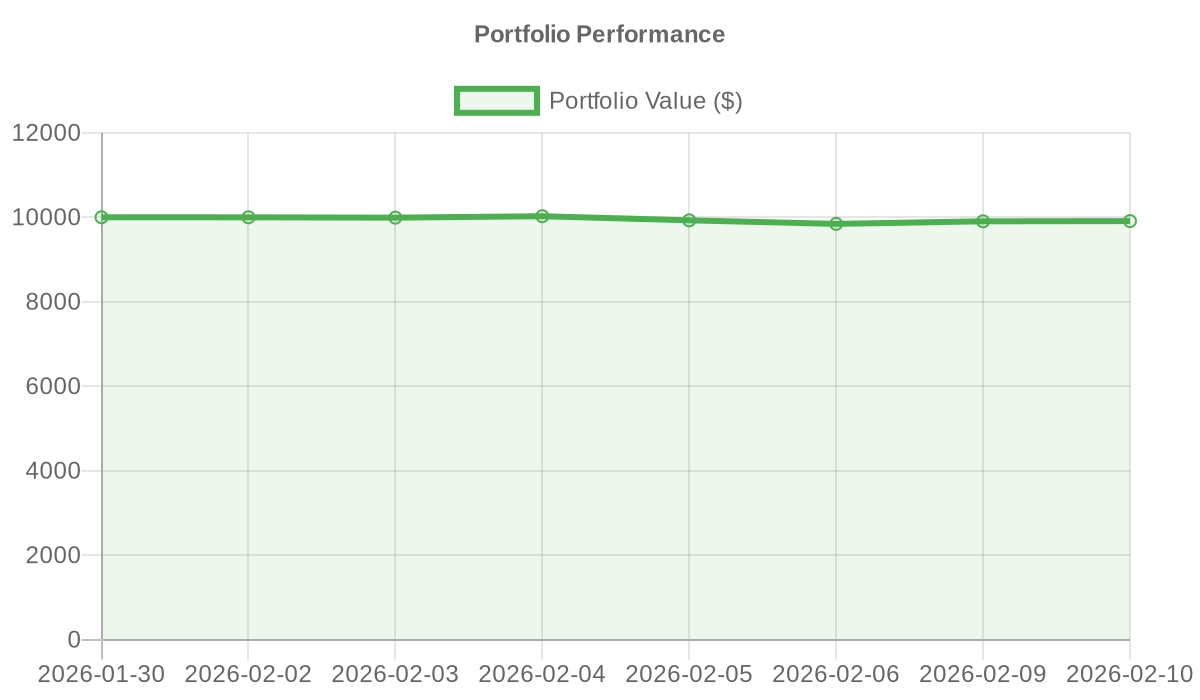
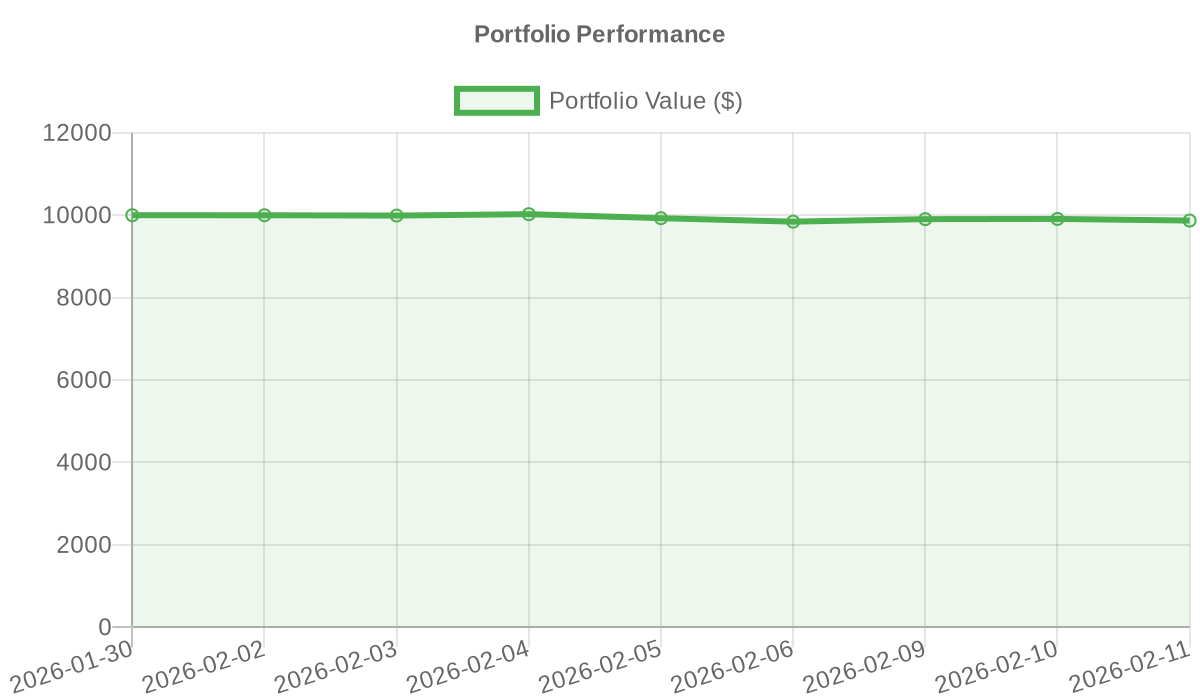
chore: daily investor data update
- Added 10 new Congress trades (Feb 10 disclosures)
- Steve Cohen: SONY buy
- Chuck Fleischmann: 9 ETF trades (defensive rotation)
- Portfolio: $9,870.64 (-1.29%)

diff --git a/memory/builds/2026-02-10-session2.md b/memory/builds/2026-02-10-session2.md
@@ -45,6 +45,14 @@
 
 **Commit:** `5ef0849a feat(devlog): add --week flag for 7-day summary statistics`
 
+### 6. `--month` flag ✅
+- Added `-m, --month` for 30-day summary
+- Groups by week (This week, Last week, 2 weeks ago, etc.)
+- Shows entry totals per week with active days
+- Calculates overall totals and averages
+
+**Commit:** `bf8418fc feat(devlog): add --month flag for 30-day summary by week`
+
 ## Tests Performed
 
 ```bash
